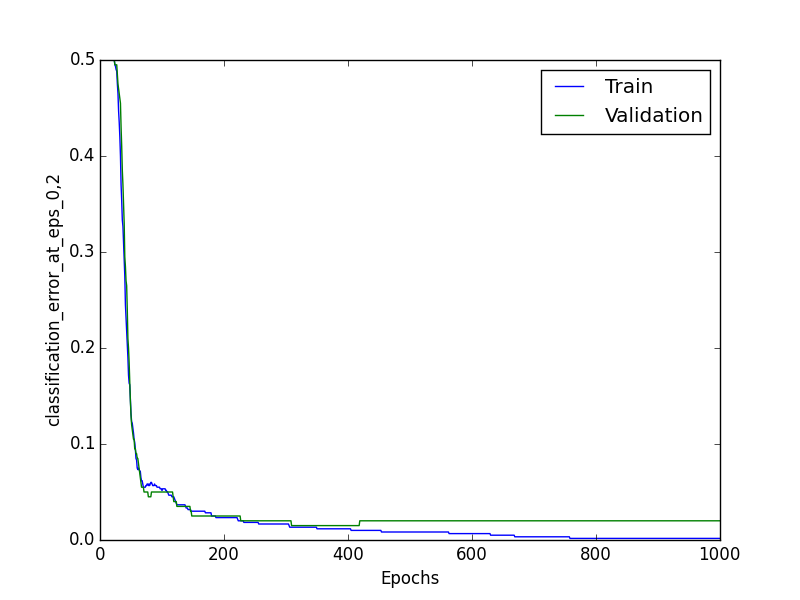
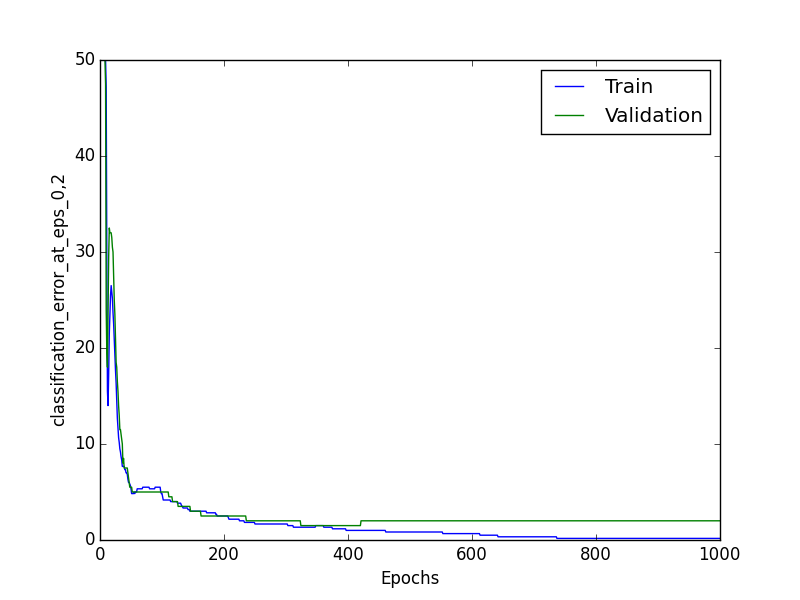
Changed classification error into percentages,
Q2.5 gave some results (knn ~98% classification rate)

diff --git a/NN/python/run_knn.py b/NN/python/run_knn.py
@@ -1,0 +1,39 @@
+import numpy as np
+from l2_distance import l2_distance
+
+def run_knn(k, train_data, train_labels, valid_data):
+    """Uses the supplied training inputs and labels to make
+    predictions for validation data using the K-nearest neighbours
+    algorithm.
+
+    Note: N_TRAIN is the number of training examples,
+          N_VALID is the number of validation examples, 
+          and M is the number of features per example.
+
+    Inputs:
+        k:            The number of neighbours to use for classification 
+                      of a validation example.
+        train_data:   The N_TRAIN x M array of training
+                      data.
+        train_labels: The N_TRAIN x 1 vector of training labels
+                      corresponding to the examples in train_data 
+                      (must be binary).
+        valid_data:   The N_VALID x M array of data to
+                      predict classes for.
+
+    Outputs:
+        valid_labels: The N_VALID x 1 vector of predicted labels 
+                      for the validation data.
+    """
+
+    dist = l2_distance(valid_data.T, train_data.T)
+    nearest = np.argsort(dist, axis=1)[:,:k]
+
+    train_labels = train_labels.reshape(-1)
+    valid_labels = train_labels[nearest]
+
+    # note this only works for binary labels
+    valid_labels = (np.mean(valid_labels, axis=1) >= 0.5).astype(np.int)
+    valid_labels = valid_labels.reshape(-1,1)
+
+    return valid_labels

diff --git a/NN/python/l2_distance.py b/NN/python/l2_distance.py
@@ -1,0 +1,44 @@
+import numpy as np
+
+def l2_distance(a, b):
+    """Computes the Euclidean distance matrix between a and b.
+
+    Inputs:
+        A: D x M array.
+        B: D x N array.
+
+    Returns:
+        E: M x N Euclidean distances between vectors in A and B.
+
+
+    Author   : Roland Bunschoten
+               University of Amsterdam
+               Intelligent Autonomous Systems (IAS) group
+               Kruislaan 403  1098 SJ Amsterdam
+               tel.(+31)20-5257524
+               bunschot@wins.uva.nl
+    Last Rev : Wed Oct 20 08:58:08 MET DST 1999
+    Tested   : PC Matlab v5.2 and Solaris Matlab v5.3
+
+    Copyright notice: You are free to modify, extend and distribute 
+       this code granted that the author of the original code is 
+       mentioned as the original author of the code.
+
+    Fixed by JBT (3/18/00) to work for 1-dimensional vectors
+    and to warn for imaginary numbers.  Also ensures that 
+    output is all real, and allows the option of forcing diagonals to
+    be zero.  
+
+    Basic functionality ported to Python 2.7 by JCS (9/21/2013).
+    """
+
+    if a.shape[0] != b.shape[0]:
+        print "Shape of a is", a.shape
+        print "Shape of b is", b.shape
+        raise ValueError("A and B should be of same dimensionality")
+
+    aa = np.sum(a**2, axis=0)
+    bb = np.sum(b**2, axis=0)
+    ab = np.dot(a.T, b)
+
+    return np.sqrt(aa[:, np.newaxis] + bb[np.newaxis, :] - 2*ab)

diff --git a/NN/python/knn.py b/NN/python/knn.py
@@ -1,0 +1,41 @@
+from util import *
+from run_knn import run_knn
+
+def get_perc(test, target):
+    total = 0
+    correct = 0
+    for i in range(len(test)):
+        if test[i][0] == target[i][0]:
+            correct += 1
+        total += 1
+    return correct * 1.0/(total * 1.0) * 100
+
+
+def main():
+    train_data, valid_data, test_data, train_labels, valid_labels, test_labels = LoadData('digits.npz')
+    print train_data.shape
+    print train_labels.shape
+
+    print valid_data.shape
+    print valid_labels.shape
+
+    print test_data.shape
+    print test_labels.shape
+    
+    print "VALIDATION"
+    for i in [1, 3, 5, 7, 9]:
+        labels = run_knn(i, train_data.T, train_labels, valid_data.T)
+        #plot_digits(test)
+        print "K = ", i, " perc = ", get_perc(labels, valid_labels.T)
+
+    print "TEST"
+    for i in [1, 3, 5, 7, 9]:
+        labels = run_knn(i, train_data.T, train_labels, test_data.T)
+        #plot_digits(test)
+        print "K = ", i, " perc = ", get_perc(labels, test_labels.T)
+
+
+if __name__ == '__main__':
+    main()
+
+

diff --git a/NN/python/nn.py b/NN/python/nn.py
@@ -157,7 +157,7 @@ def main():
   momentum = 0.0
   num_epochs = 1000
 
-  current_problem = [2.4]
+  current_problem = [2.1, 2.2, 2.3, 2.4]
   print "Running problems: ", current_problem
 
   # 2.1 and 2.2
@@ -217,7 +217,7 @@ def get_error_perc(target, prediction):
     for (t, p) in zip(target[0], prediction[0]):
         if (t == 1 and p >= 0.5) or (t == 0 and p < 0.5):
             n_correct += 1
-    return 1.0 - 1.0 * n_correct / n_sample
+    return 100.0 - 100.0 * n_correct / n_sample
 
 if __name__ == '__main__':
   main()
